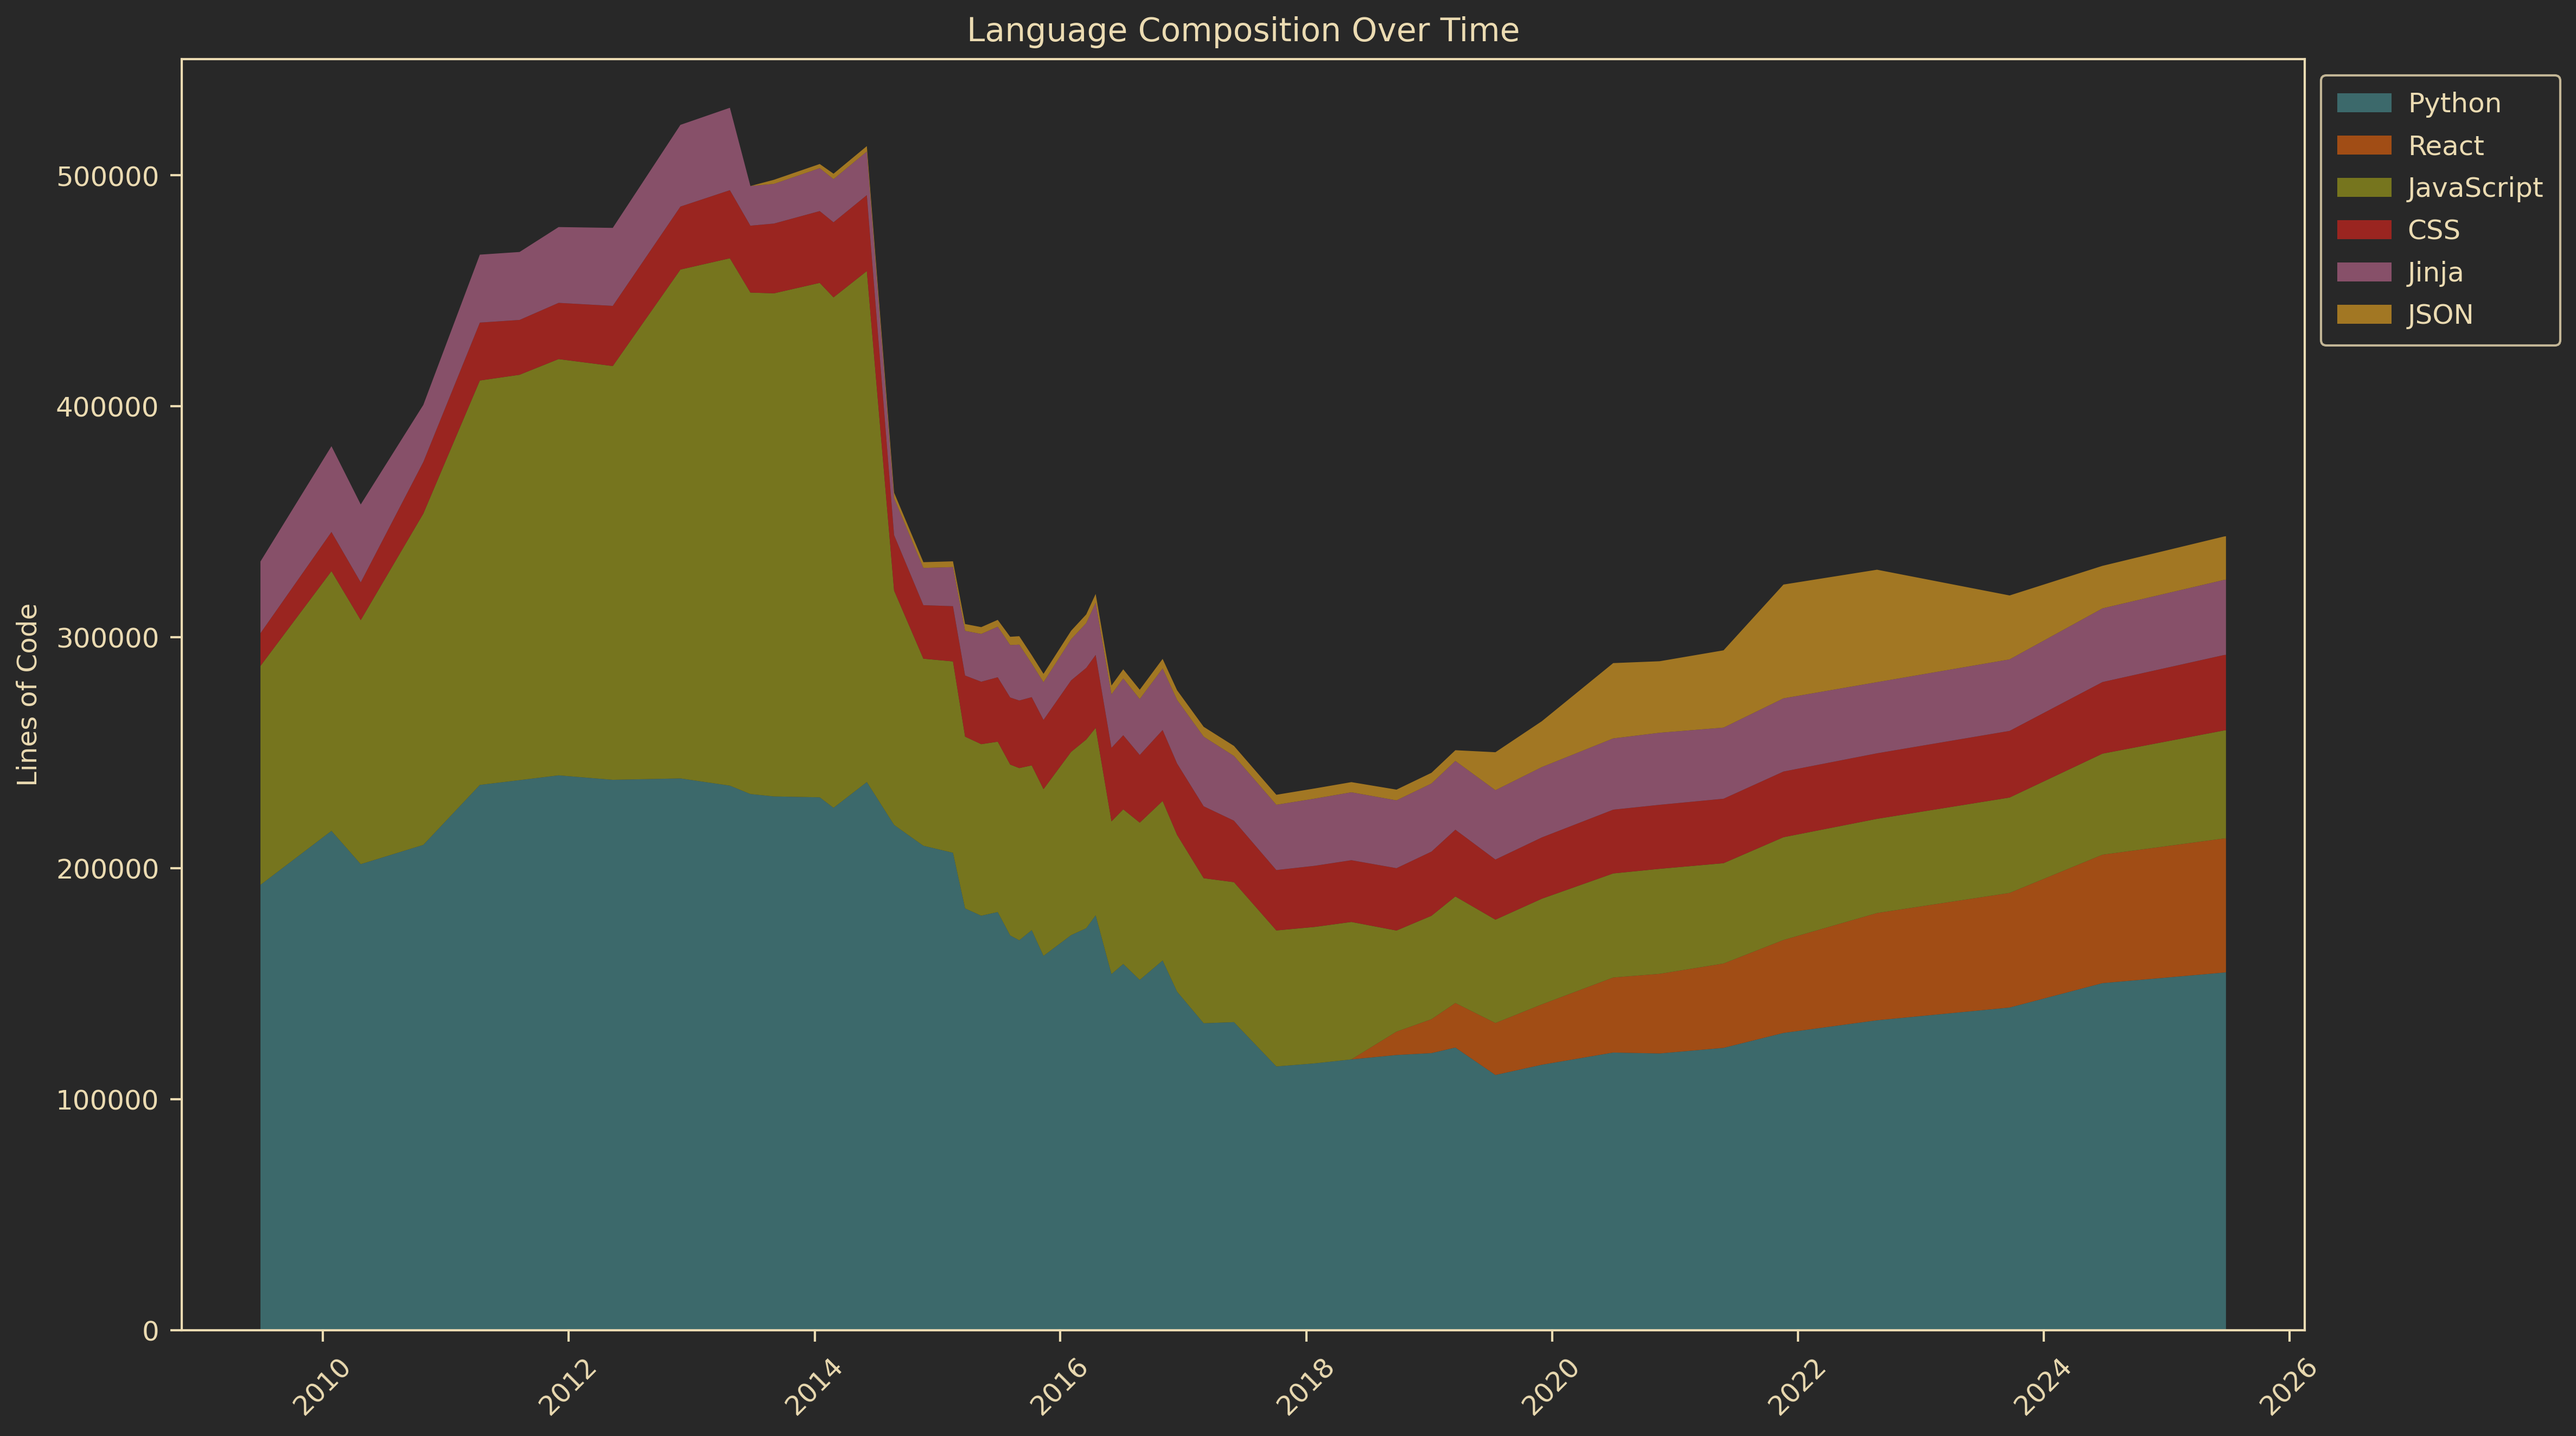
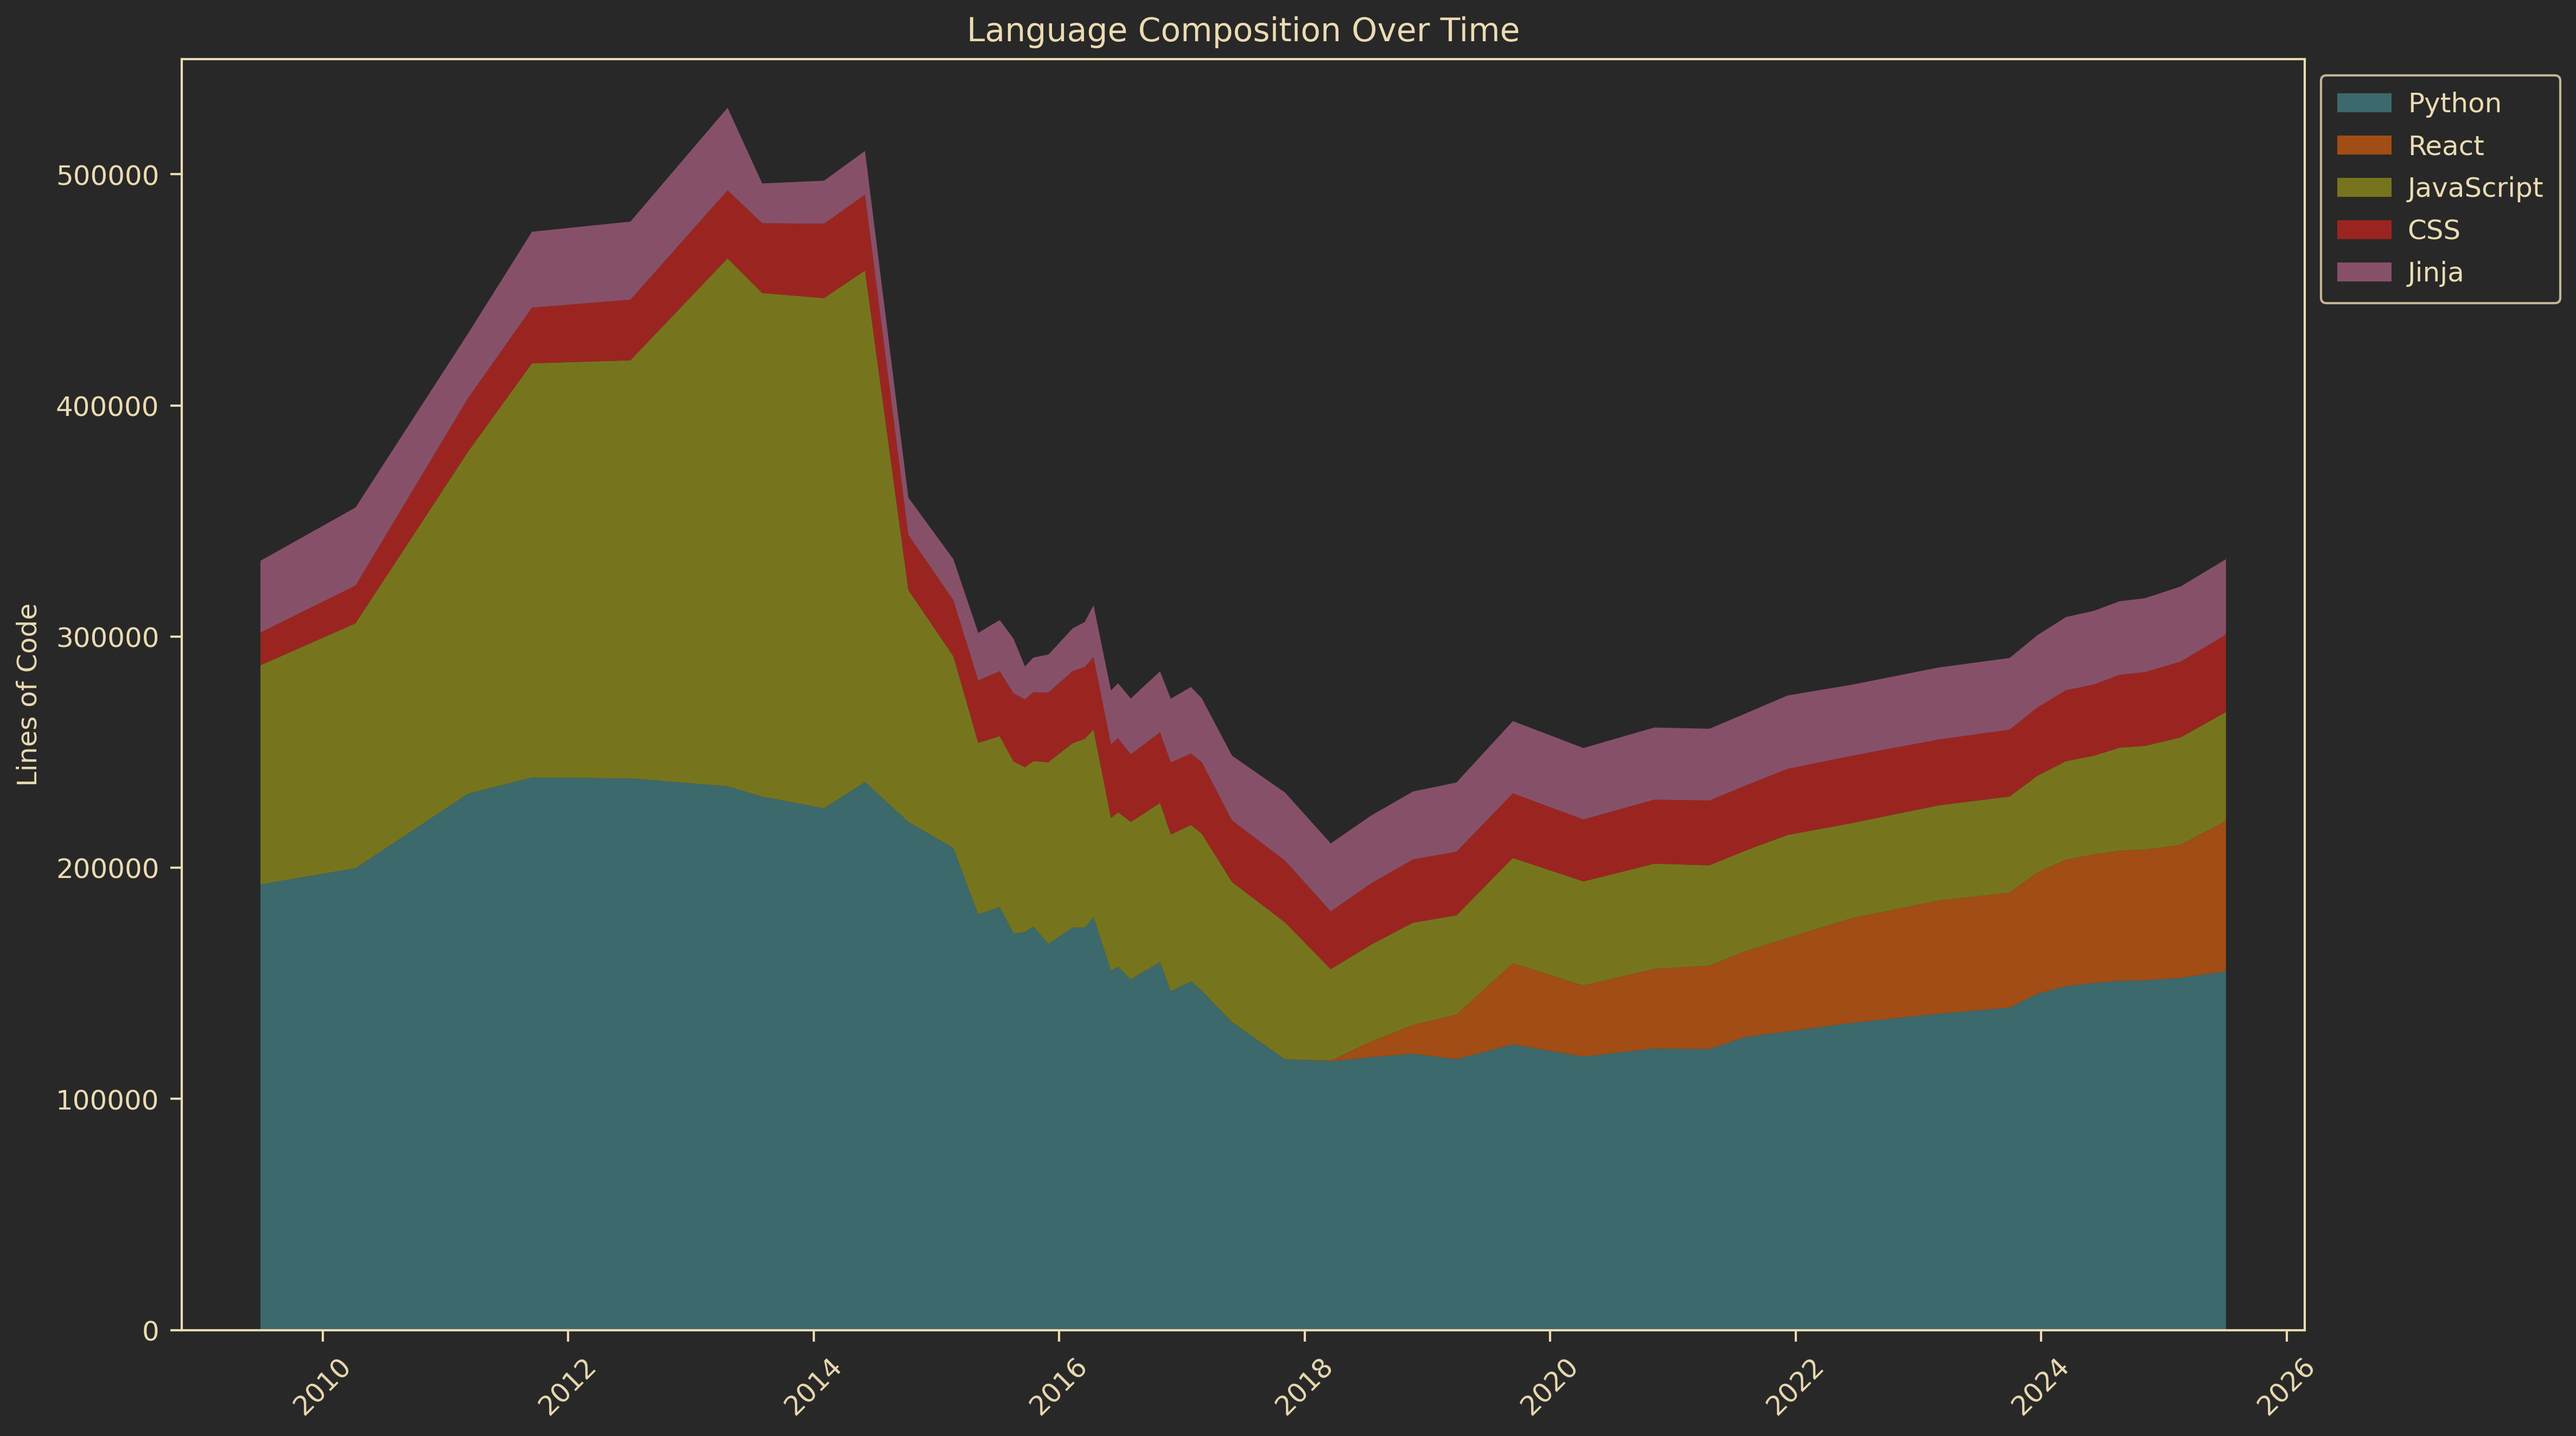
Improvements

diff --git a/stats/loc_analyzer.py b/stats/loc_analyzer.py
@@ -329,7 +329,7 @@ class GitLOCAnalyzer:
             final_counts = df.iloc[-1][[f"{lang}_lines" for lang in languages]]
             # Convert to numeric and handle any non-numeric values
             final_counts = pd.to_numeric(final_counts, errors="coerce").fillna(0)
-            top_languages = final_counts.nlargest(6).index
+            top_languages = final_counts.nlargest(5).index
             top_languages = [col.replace("_lines", "") for col in top_languages]
 
             language_data = df[[f"{lang}_lines" for lang in top_languages]]

diff --git a/PITCHME.md b/PITCHME.md
@@ -561,8 +561,7 @@ Language composition over time
 interesting to try to reverse-engineer what happened
 
 - Python dominates ever since the switch from PHP
-- Huge drop in JS code around 2014
-- Jinja/CSS stable
+- Huge drop in JS code around 2014 -> stopped vendoring JS dependencies and instead started using npm
 - Lots of JSON around 2022 for some reason -> lockfile version upgrade from 2 to 3
 https://github.com/indico/indico/pull/6225/files
 
@@ -599,40 +598,13 @@ Dealing with technical debt
 
 ![bg](assets/slides/stats/tech_debt.png)
 
----
 
-# Maintaining a healthy work-life balance
-
----
-
-![bg contain](assets/slides/stats/overtime_commits.png)
-
-<!--
-- Maintaining a healthy work-life balance can be difficult at times
-- We can get a good estimation of that by analyzing at what time code is committed throughout the day
-- The main graph shows how many commits were made outside the regular working hours (basically 9-5)
-- 2015 was a particulary difficult year, with a big rewrite of the app and a lot of all-nighters
-- Happy to say that we have improved quite a lot since then and 2025 is looking much better
-
-- it's also interesting to see breakdown of exactly when people tend to commit
-- two times jump out -> just before lunch and just before going home
- -->
-
----
-
-<!--
-This is what our senior colleagues look like when we mention 2015
- -->
-
-![bg contain](assets/slides/stats/vietnam.jpeg)
-
----
+<!-- ---
 
 # Tests
 
 ---
 
-<!--
 - Far from the likes of Sqlite which have 10x the test as source code
 - Clear upward movement
 
@@ -641,19 +613,16 @@ This is what our senior colleagues look like when we mention 2015
 - Huge pain to maintain
 
 https://github.com/indico/indico/commit/b1a3e14b90d16ad7883ed550081af54bdbb69bf8
- -->
 
 ![bg contain](assets/slides/stats/test_ratio.png)
 
 ---
 
-<!--
 - Nowadays we do manual testing
 - We always release new features to our users at CERN fFirst before making a public release
 - ~10k daily users are very good at finding bugs
--->
 
-![bg contain](assets/slides/stats/prod.webp)
+![bg contain](assets/slides/stats/prod.webp) -->
 
 ---
 
@@ -716,6 +685,7 @@ https://github.com/indico/indico/commit/b1a3e14b90d16ad7883ed550081af54bdbb69bf8
 </div>
 
 ![](assets/slides/stats/balls_linear.png)
+![width:50px](assets/slides/cern/cernball.png)
 
 <!--
 Indico has a very active community of volunteer translators
@@ -736,6 +706,39 @@ very grateful.
 <!-- ---
 
 ![bg contain](assets/slides/stats/translations_over_time.png) -->
+
+---
+
+# Maintaining a healthy work-life balance
+
+---
+
+![bg contain](assets/slides/stats/overtime_commits.png)
+
+<!--
+- Maintaining a healthy work-life balance can be difficult at times
+- We can get a good estimation of that by analyzing at what time code is committed throughout the day
+- The main graph shows how many commits were made outside the regular working hours (basically 9-5)
+- 2015 was a particulary difficult year, with a big rewrite of the app and a lot of all-nighters
+
+Reasons:
+- keep uptime high and not take indico down
+- long DB migrations taking hours
+- work on weekends was not common as people didnt normally work from home
+
+- Happy to say that we have improved quite a lot since then and 2025 is looking much better
+
+- it's also interesting to see breakdown of exactly when people tend to commit
+- two times jump out -> just before lunch and just before going home
+ -->
+
+---
+
+<!--
+This is what our senior colleagues look like when we mention 2015
+ -->
+
+![bg contain](assets/slides/stats/vietnam.jpeg)
 
 ---
 
